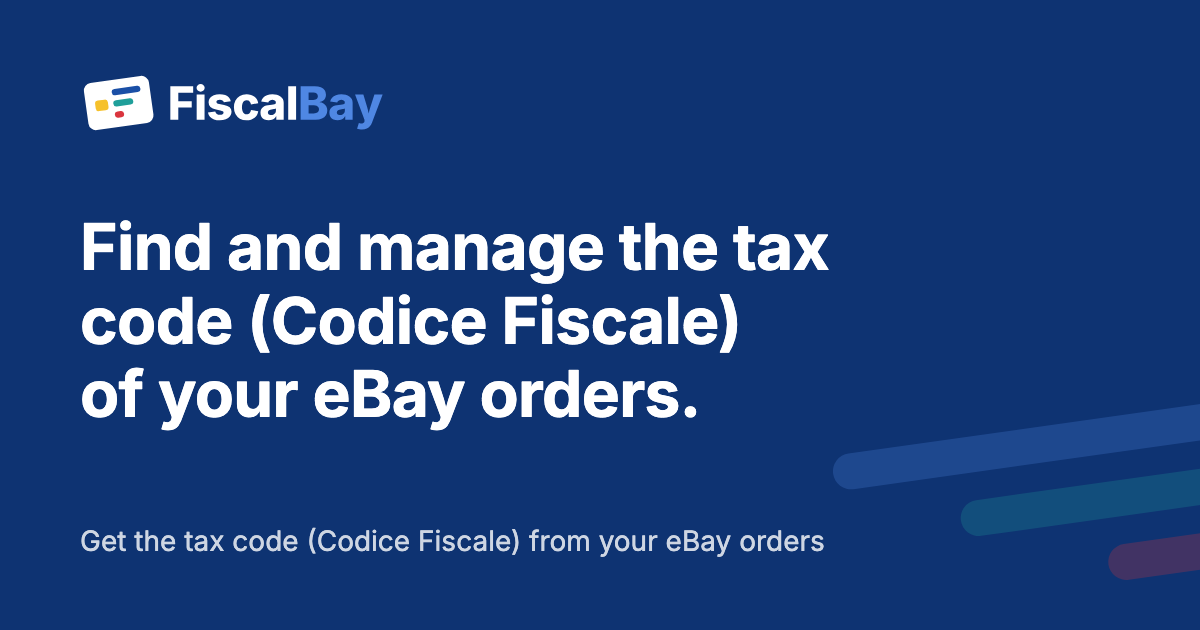
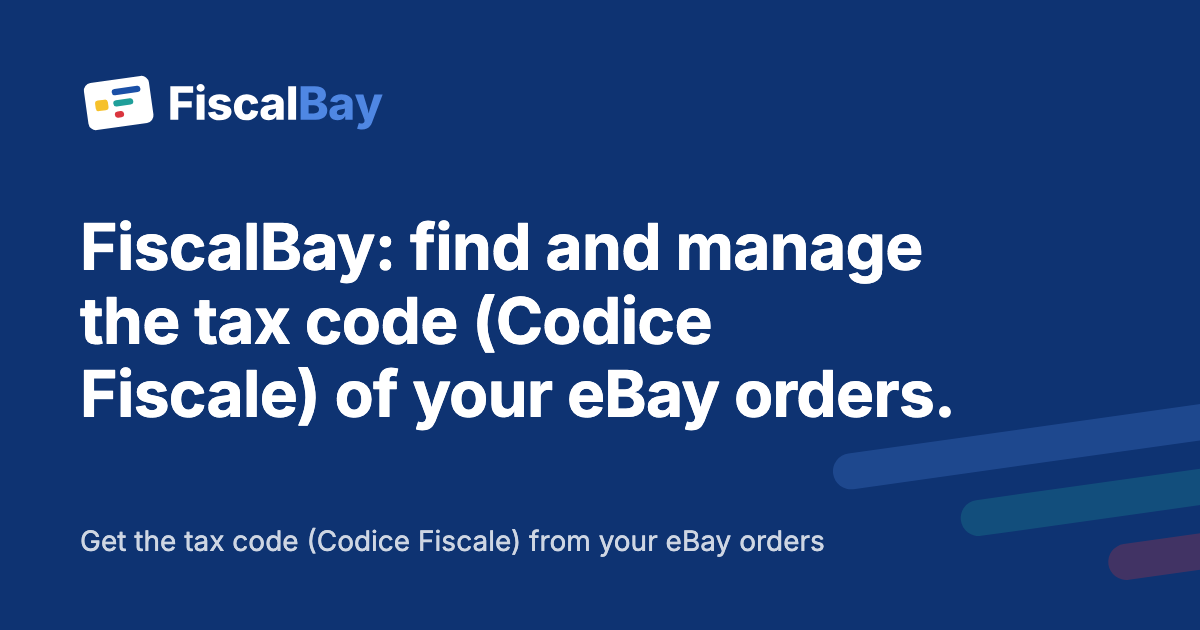
feat: marchio FiscalBay nel titolo della home
L'h1 della home ora comincia con «FiscalBay», in italiano e in inglese,
così la ricerca del nome del servizio trova il sito. Rigenerate le
immagini di condivisione della home e aggiornato il requisito in
EXPERIENCE.md.

Changed region(s): [[0.0617, 0.3317, 0.8017, 0.6937]]

diff --git a/app/copy/site-pages.server.ts b/app/copy/site-pages.server.ts
@@ -10,7 +10,7 @@ const it = {
     title: "Recupera il Codice Fiscale dagli ordini eBay",
     description:
       "Recupera e gestisci il Codice Fiscale dei tuoi ordini eBay, quando disponibile su eBay, con sincronizzazione automatica, export e notifiche.",
-    hero: "Trova e gestisci il Codice Fiscale dei tuoi ordini eBay.",
+    hero: "FiscalBay: trova e gestisci il Codice Fiscale dei tuoi ordini eBay.",
     body: "Colleghi il tuo negozio eBay e FiscalBay riporta il Codice Fiscale dell’acquirente, quando disponibile su eBay, pronto da copiare ed esportare. Anche la Partita IVA, se c’è.",
     howItWorks: "Come funziona",
     trust: [
@@ -370,7 +370,7 @@ const en: SitePagesCopy = {
     title: "Get the tax code (Codice Fiscale) from your eBay orders",
     description:
       "Get and manage the tax code (Codice Fiscale) of your eBay orders, when eBay provides it, with automatic sync, export and notifications.",
-    hero: "Find and manage the tax code (Codice Fiscale) of your eBay orders.",
+    hero: "FiscalBay: find and manage the tax code (Codice Fiscale) of your eBay orders.",
     body: "Connect your eBay store and FiscalBay shows the buyer’s tax code (Codice Fiscale), when eBay provides it, ready to copy and export. The VAT number (Partita IVA) too, when there is one.",
     howItWorks: "How it works",
     trust: ["Official eBay APIs", "Secure payments handled by Stripe", "No card to get started"],

diff --git a/docs/product/EXPERIENCE.md b/docs/product/EXPERIENCE.md
@@ -105,7 +105,7 @@ Token semantici, dominio, naming e contratti condivisibili con Expo; implementaz
 
 Home, Funzionalità, Prezzi, Sicurezza, FAQ, Supporto e Guide. Italiano su root, inglese `/en` con i segmenti in inglese, anche nell'area riservata e nell'anteprima (`/en/pricing`, `/en/app/orders`, `/en/app/settings/plan`); la console resta con le sezioni italiane. Un vecchio indirizzo inglese con i segmenti italiani porta a quello nuovo con un solo redirect permanente, 308 per gli invii di moduli. Le Guide sono articoli stabili sulle domande ricorrenti dei venditori (dove trovare il Codice Fiscale dell'acquirente e perché non si vede nell'ordine, come chiederlo, Partita IVA, fattura elettronica, export in Excel o CSV), con il titolo che comincia dalla frase cercata, un titolo breve per i risultati di ricerca, data di aggiornamento, un riquadro finale su come FiscalBay risolve il problema con la schermata della funzione, `Inizia gratis` e `Accedi`, e il menu di tutte le guide a lato o dopo l'articolo, senza notizie né categorie; dati strutturati dell'articolo e del percorso Guide › articolo; ogni affermazione resta nei limiti di ciò che FiscalBay fa ed eBay rende disponibile e le regole fiscali rimandano al commercialista ([D293](../decisions/DECISION_REGISTER.md)). Nessun blog/news, roadmap pubblica o pagine fittizie «prossimamente»; le Novità esistono soltanto nell'area autenticata (D203). Funzionalità in pagina unica: CF, sync, ordini, export, Telegram, multi-negozio, sicurezza. Pagina Sicurezza dedicata a due livelli ma senza eccesso tecnico.
 
-Descriptor principale: **Recupera il Codice Fiscale dagli ordini eBay**; breve: **Codice Fiscale per ordini eBay**. Hero: **Trova e gestisci il Codice Fiscale dei tuoi ordini eBay.** Title approvato: `Recupera il Codice Fiscale dagli ordini eBay | FiscalBay`: ogni titolo mette prima la pagina e poi il marchio, e le pagine pubbliche portano la parola chiave nel titolo della scheda, dopo il nome della pagina (`Prezzi | Codice Fiscale degli ordini eBay | FiscalBay`), mentre l'H1 resta il nome della pagina (`Prezzi`); la home tiene l'hero. Meta: recupero/gestione del CF disponibile con sync, export e notifiche. Keyword secondarie solo pertinenti, inclusa fattura elettronica per spiegare l'utilità, mai per affermare che FB la emetta.
+Descriptor principale: **Recupera il Codice Fiscale dagli ordini eBay**; breve: **Codice Fiscale per ordini eBay**. Hero: **FiscalBay: trova e gestisci il Codice Fiscale dei tuoi ordini eBay.** Il marchio apre l'H1 della home perché la ricerca del nome trovi il sito. Title approvato: `Recupera il Codice Fiscale dagli ordini eBay | FiscalBay`: ogni titolo mette prima la pagina e poi il marchio, e le pagine pubbliche portano la parola chiave nel titolo della scheda, dopo il nome della pagina (`Prezzi | Codice Fiscale degli ordini eBay | FiscalBay`), mentre l'H1 resta il nome della pagina (`Prezzi`); la home tiene l'hero. Meta: recupero/gestione del CF disponibile con sync, export e notifiche. Keyword secondarie solo pertinenti, inclusa fattura elettronica per spiegare l'utilità, mai per affermare che FB la emetta.
 
 CTA primaria `Inizia gratis`, secondaria `Come funziona`, accesso evidente. In Prezzi ogni offerta Pro ha il proprio pulsante: l'offerta scelta segue la registrazione e la conferma dell'email apre la pagina Piano con quell'offerta in evidenza, senza acquistare nulla. Chi ha già Pro a vita vede al loro posto il piano attivo e il collegamento a Piano e pagamenti ([D308](../decisions/DECISION_REGISTER.md)). Prezzi chiude con le domande sui pagamenti riprese dalla FAQ. Tre passaggi: collega eBay; sync/individuazione CF; consulta/copia/esporta/notifiche secondo piano. Fascia fiducia: API ufficiali eBay, pagamenti sicuri gestiti da Stripe, nessuna carta per iniziare. Precisare quando necessario «quando disponibile su eBay». Letture e cose non fatte esplicite; indipendenza da eBay visibile e nei Termini.
 

diff --git a/changes/marchio-nel-titolo-della-home.md b/changes/marchio-nel-titolo-della-home.md
@@ -1,0 +1,7 @@
+# Marchio nel titolo della home
+
+## Changelog
+
+### Altre modifiche
+
+- **Marchio nel titolo della home.** Il titolo principale della home, in italiano e in inglese, comincia con «FiscalBay», così chi cerca il nome del servizio trova il sito. Anche l'immagine di condivisione della home riporta il nuovo titolo.
